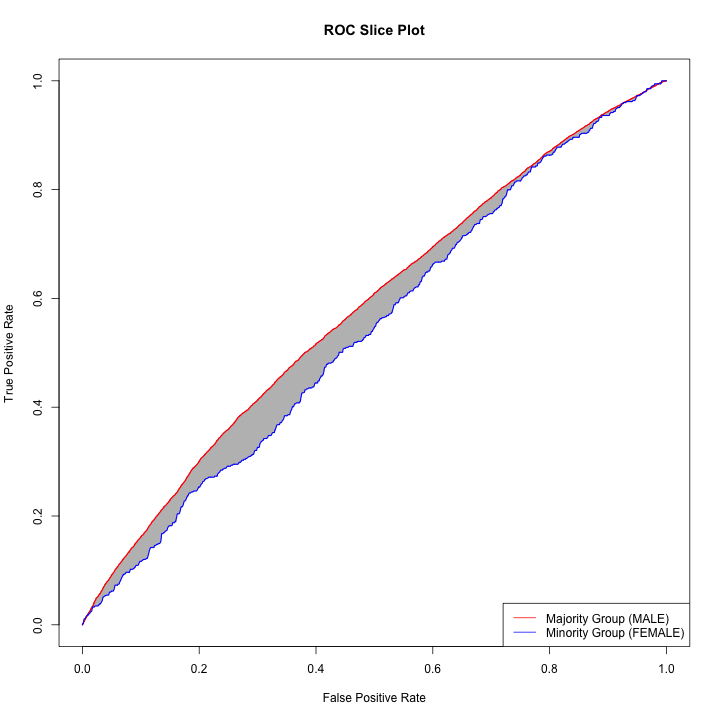
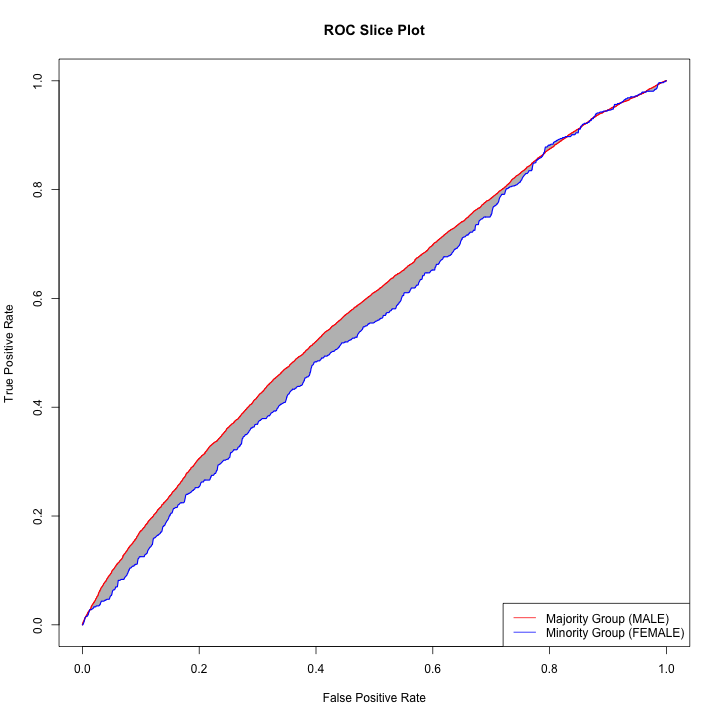
updated for most recent release

diff --git a/README.md b/README.md
@@ -45,13 +45,13 @@ lr = glm(returned ~ ., data=traindata, family="binomial")
 testdata$pred = predict(lr, testdata, type = "response")
 abroca <- compute_abroca(testdata, pred_col = "pred", label_col = "returned", 
                protected_attr_col = "Gender", majority_protected_attr_val = "MALE", 
-               plot_slices = TRUE, image_dir=".", identifier="recidivism")
+               plot_slices = TRUE, image_dir="./man/figures", identifier="recidivism")
 print(abroca)
-#> [1] 0.02787494
-knitr::include_graphics("slice_plot_recidivism_MALE_FEMALE.png")
+#> [1] 0.03281967
+knitr::include_graphics("man/figures/slice_plot_recidivism_MALE_FEMALE.png")
 ```
 
-<img src="slice_plot_recidivism_MALE_FEMALE.png" width="100%" />
+<img src="man/figures/slice_plot_recidivism_MALE_FEMALE.png" width="100%" />
 
 The plot is automatically saved to a file instead of being displayed
 on-screen.

diff --git a/cran-comments.md b/cran-comments.md
@@ -4,4 +4,6 @@
 
 
 ## R CMD check results
-There were no ERRORs, WARNINGs or NOTEs. 
+There were no ERRORs or WARNINGs.
+
+There is one NOTE about misspelled words; however, none of the listed words are misspelled.
